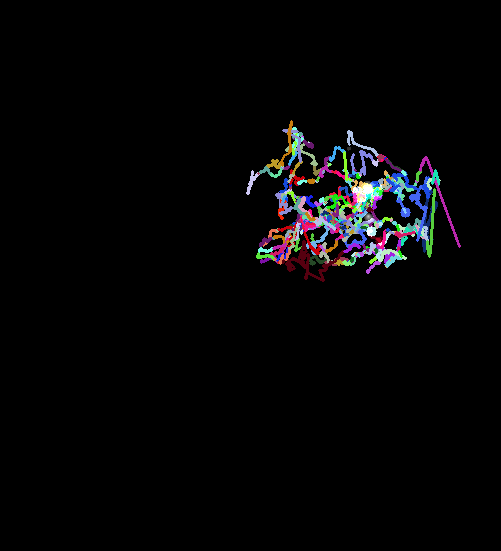
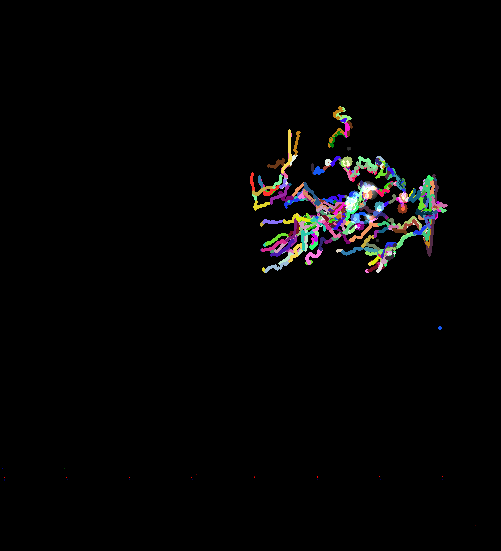
working

Changed region(s): [[0.479, 0.1851, 0.8982, 0.5245], [0.8982, 0.4011, 0.9281, 0.4628]]

diff --git a/optical_flow.py b/optical_flow.py
@@ -9,11 +9,11 @@ def sparse(cap):
     feature_params = dict( maxCorners = 50,
                            qualityLevel = 0.01,
                            minDistance = 2,
-                           blockSize = 7)
+                           blockSize = 3)
 
     # Parameters for lucas kanade optical flow
-    lk_params = dict( winSize  = (15,15),
-                      maxLevel = 2,
+    lk_params = dict( winSize  = (25,25),
+                      maxLevel = 3,
                       criteria = (cv2.TERM_CRITERIA_EPS | cv2.TERM_CRITERIA_COUNT, 10, 0.03))
 
     # Create some random colors
@@ -24,7 +24,7 @@ def sparse(cap):
     first_frame = old_frame
     old_gray = cv2.cvtColor(old_frame, cv2.COLOR_BGR2GRAY)
     p0 = cv2.goodFeaturesToTrack(old_gray, mask = None, **feature_params)
-
+    # print(len(p0))
     vector_frames = []
 
     # Create a mask image for drawing purposes
@@ -40,6 +40,8 @@ def sparse(cap):
             # Select good points
             good_new = p1[st==1]
             good_old = p0[st==1]
+
+            vector_frames.append(good_old)
 
             # draw the tracks
             for i,(new,old) in enumerate(zip(good_new,good_old)):
@@ -64,4 +66,5 @@ def sparse(cap):
     cv2.destroyAllWindows()
 
     display(img, name="last frame")
-    save(img, 'lastframe.png')
+    save(img, 'last_frame.png')
+    return vector_frames

diff --git a/main.py b/main.py
@@ -48,4 +48,5 @@ if __name__ == '__main__':
 		imgs.append(read(files[i], crop=False)[1])
 		# display(imgs[i], t=30)
 
-	sparse(imgs)
+	vectors = sparse(imgs)
+	print(len(vectors))
